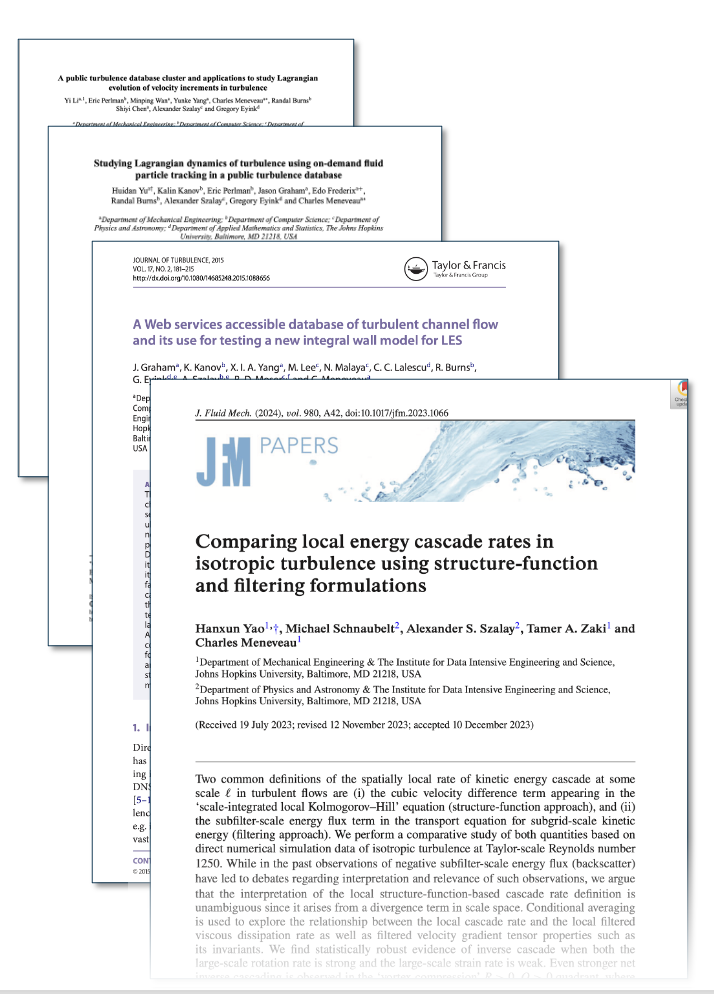
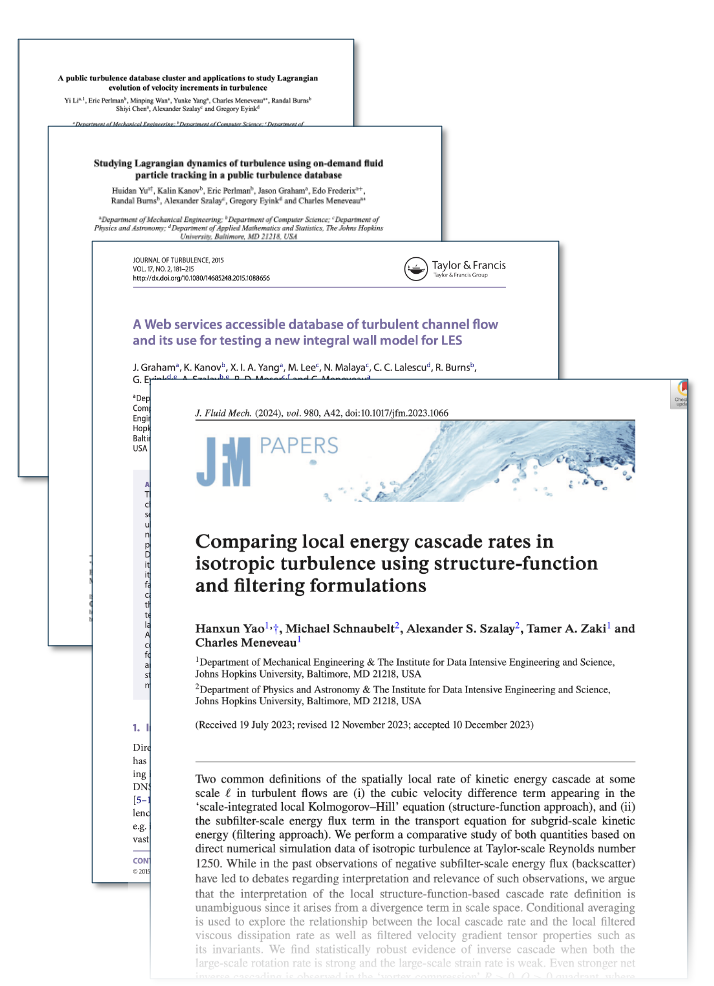
Made publications image smaller. Edited image to get rid of strange gray line on the bottom of it

diff --git a/components/content/documentation/publications.tsx b/components/content/documentation/publications.tsx
@@ -59,7 +59,7 @@ export const Publications: FC = () => {
   return (
     <Styled>
       {displayImage &&
-        <Image className="responsive" src={mainImage} height={450} alt="Publications" />
+        <Image className="responsive" src={mainImage} height={380} alt="Publications" />
       }
       <div className="content">
         <h1>Publications and abstracts</h1>
